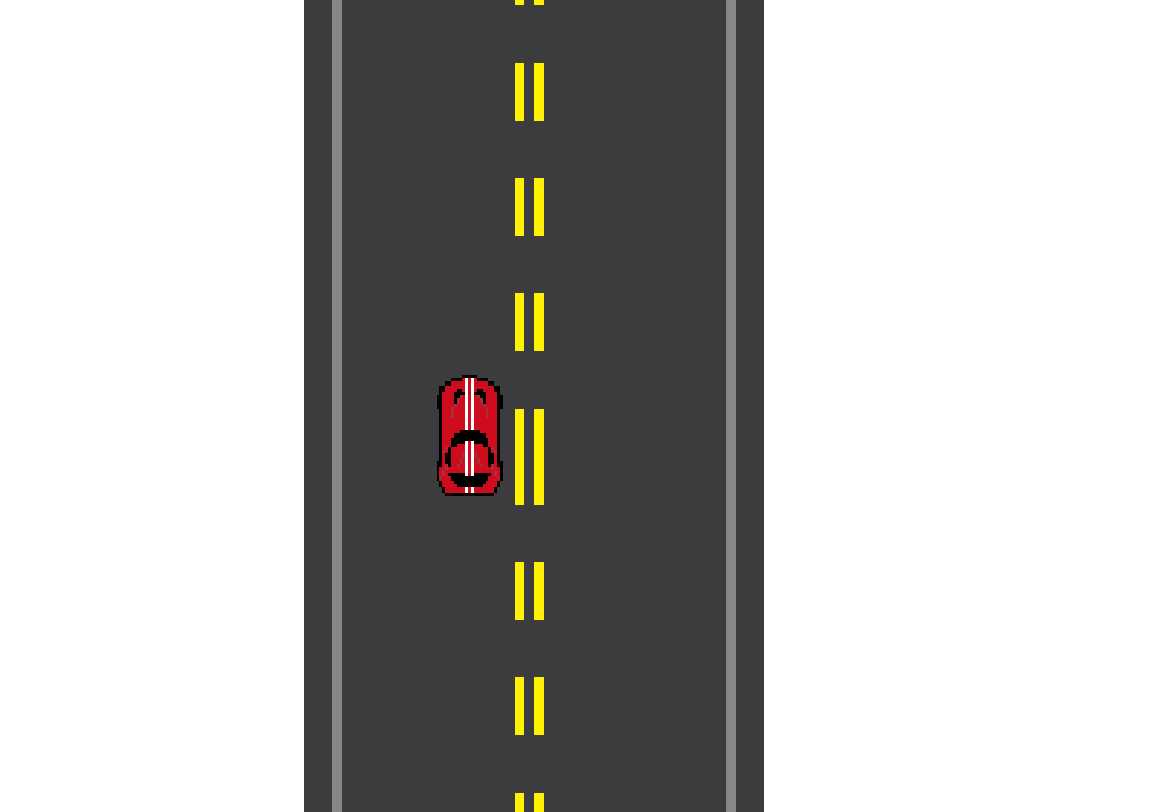
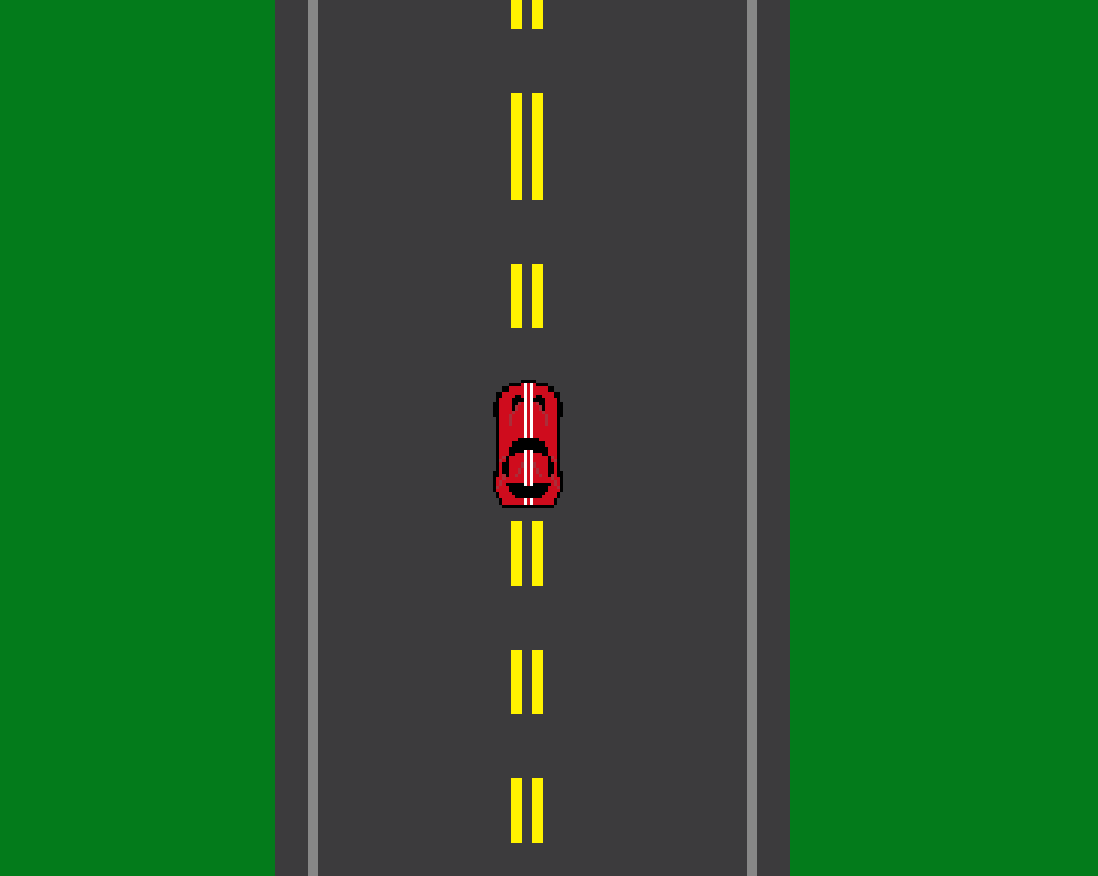
P .F1

diff --git a/scripts/cenario.js b/scripts/cenario.js
@@ -1,148 +1,12 @@
-function random(num){
-    return Math.floor(Math.random() * num);
+const ceu = document.querySelector("#ceu");
+for (let i = 0; i < 200; i++) {
+
+    const estrela = document.createElement("div");
+    estrela.classList.add("estrela");
+    estrela.style.left = Math.random() * 100 + "%";
+    estrela.style.top = Math.random() * 100 + "%";
+    estrela.style.width = Math.random() * 3 + "px";
+    estrela.style.height = Math.random() * 3 + "px";
+    estrela.style.opacity = Math.random();
+    ceu.appendChild(estrela);
 }
-
-class Canvas {
-    constructor(canvasSelector, canvasColor = '#000', makeFullScreen = true){
-        this.canvas = document.querySelector(canvasSelector);
-        this.canvas.style.background = canvasColor;
-        if (makeFullScreen) {
-            this.makeFullScreen();
-        }
-    }
-
-    getCtx(dimention = '2D') {
-        return this.canvas.getContext(dimention);
-    }
-
-    getWidth() {
-        return this.canvas.width;
-    }
-
-    getHeigth() {
-        return this.canvas.heigth;
-    }
-
-    clear() {
-        this.getCtx().clearRect(0, 0, this.getWidth(), this.getHeigth())
-    }
-
-    makeFullScreen() {
-        this.canvas.heigth = window.innerHeight;
-        this.canvas.width = window.innerWidth;
-    }
-}
-
-class Animation {
-    constructor(canvas, circleNumber = 120, circles = null){
-        this.canvas = canvas;
-        if (circles === null){
-            circles = [];
-            for(let i = 0; i < circleNumber; i++){
-                circles.push(new circleNumber(this.getCanvas()));
-            }
-        };
-        this.circles = circles;
-        this.render();
-    }
-
-    getCanvas(){
-        return this.canvas;
-    }
-
-    getCircles() {
-        return this.circles;
-    }
-
-    moveCircles(stepSize = 10){
-        this.getCircles().forEach((circle) => {
-            circle.move(stepSize);
-        });
-    }
-
-    drawCircles() {
-        this.getCircles().forEach((circle) =>{
-            circle.draw();
-        });
-    }
-
-    render(timeFrame = 40) {
-        setInterval(() => {
-            this.canvas.clear();
-            this.moveCircles();
-            this.drawCircles();
-        }, timeFrame);
-    }  
-}
-
-class Circle {
-    constructor(canvas) {
-        this.setCanvas(canvas);
-        this.setRandomPosition();
-        this.setSize();
-
-        this.draw();
-    }
-
-    move(stepSize) {
-        let xDis = (this.x - (this.getCanvasWidth() / 2));
-        let yDis = (this.y - (this.getCanvasHeight() / 2));
-        let dis = Math.floor(Math.sqrt((xDis * xDis) + (yDis * yDis)));
-        let stepChange = dis * 0.007;
-        this.lastX = this.x;
-        this.lastY = this.y;
-        this.x += (stepSize * stepChange / dis) * xDis;
-        this.y += (stepSize * stepChange / dis) * yDis;
-
-        this.setSize();
-        this.checkPosition();
-    }
-
-    setRandomPosition() {
-        this.x = random(this.getCanvasWidth());
-        this.y = random(this.getCanvasHeight());
-        this.lastY = this.y;
-        this.lastX = this.x;
-    }
-
-    checkPosition() {
-        if(this.x > this.getCanvasWidth() || this.x < 0 || this.y > this.getCanvasHeight() || this.y < 0){
-            this.setRandomPosition();
-            this.setSize();
-        }
-    }
-
-    setSize(maxSize = 6, minSize = 1) {
-        this.size = Math.abs(this.getCanvasWidth() / 2 - this.x) + Math.abs(this.getCanvasHeight() / 2 - this.y);
-        let mx = (this.getCanvasHeight() + this.getCanvasWidth()) / 2;
-        this.size = (maxSize - minSize) / mx * this.size + minSize;
-        this.size *= 0.6;
-    }
-
-    getCtx() {
-        return this.canvas,this.getCtx();
-    }
-
-    draw(circleColor = '#fff', lineColor = '#fff') {
-        this.getCtx().beginPath();
-        this.getCtx().fillStyle = circleColor;
-        this.getCtx().arc(this.x, this.y, this.size, 0, 2 * Math.PI);
-        this.getCtx().fill();
-        this.getCtx().beginPath();
-        this.getCtx().strokeStyle = lineColor;
-        this.getCtx().fillStyle = lineColor;
-        this.getCtx().moveTo(this.lastX, this.lastY);
-        this.getCtx.lineTo(this.x, this.y);
-        this.getCtx().stroke();
-    }
-
-    getCanvasWidth() {
-        return this.canvas.getWidth();
-    }
-
-    getCanvasHeight() {
-        return this.canvas.getHeigth();
-    }
-}
-
-new Animation(new Canvas('#animation-canvas'));

diff --git a/index.html b/index.html
@@ -6,13 +6,12 @@
     <meta name="viewport" content="width=device-width, initial-scale=1.0">
     <title>Portfólio</title>
     <link rel="stylesheet" href="./styles/style.css">
-    <!-- <canvas id="animation-canvas"></canvas> -->
     <script src="./scripts/scripts.js" defer></script>
-    <!-- <script src="./scripts/cenario.js" defer></script> -->
+    <script src="./scripts/cenario.js" defer></script>
 </head>
 
 <body>
-   
+    
     <header class="cabecalho">
         <nav class="navegacao">
             <a class="navegacao__link" href="#sobre">Sobre mim</a>
@@ -222,6 +221,8 @@
         </section>
 
     </main>
+
+    <div id="ceu"></div>
   
     <footer class="rodape">
         <p>Propiedade de Pedro A. M. Lopes</p>

diff --git a/styles/style.css b/styles/style.css
@@ -24,7 +24,7 @@ html {
 
 body {
     background-color: var(--cor-primaria);
-    color: var(--cor-secundaria);
+    margin: 0;
     font-family: var(--fonte-texto);
 }
 
@@ -32,6 +32,25 @@ strong {
     color: var(--cor-terciaria);
 }
 
+#ceu {
+    position: fixed;
+    inset: 0;
+    pointer-events: none;
+}
+
+.estrela {
+    position: absolute;
+    width: 2px;
+    height: 2px;
+    background-color: white;
+    border-radius: 50%;
+    animation: piscar 2s infinite alternate;
+}
+
+@keyframes piscar {
+    from {opacity: 0.2;}
+    to {opacity: 1;}
+}
 
 .cabecalho {
     padding: 5% 10%;

diff --git a/scripts/scripts.js b/scripts/scripts.js
@@ -1,9 +1,7 @@
 const formulario = document.querySelector("#contato-form");
-
 const nome = document.querySelector("#nome");
 const email = document.querySelector("#email");
 const mensagem = document.querySelector("#mensagem");
-
 const mensagemStatus = document.querySelector("#mensagem-status");
 
 formulario.addEventListener("submit", function(event) {
